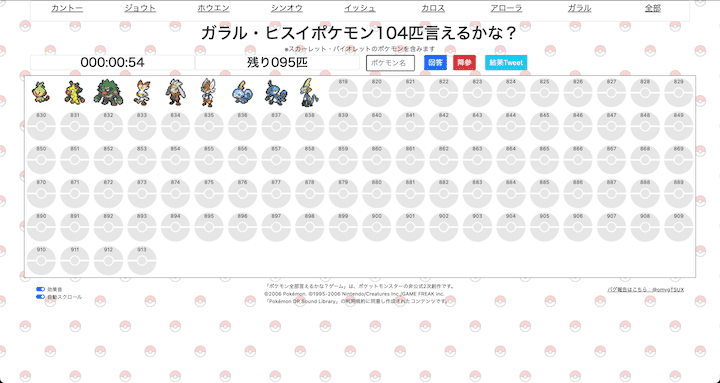
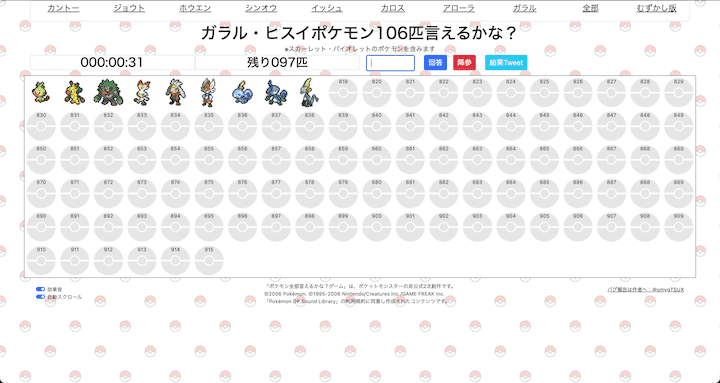
ハルクジラとパピモッチを追加

diff --git a/810-.html b/810-.html
@@ -4,11 +4,11 @@
 <head>
     <meta charset="utf-8">
     <meta name="viewport" content="width=device-width, initial-scale=1, maximum-scale=1">
-    <title>ガラル・ヒスイポケモン104匹言えるかな？ゲーム</title>
-    <meta name="description" content="キミはガラル・ヒスイポケモン104匹言えるかな？第8世代ポケモン104匹を答えるタイムアタッククイズゲームにチャレンジしよう！">
+    <title>ガラル・ヒスイポケモン106匹言えるかな？ゲーム</title>
+    <meta name="description" content="キミはガラル・ヒスイポケモン106匹言えるかな？第8世代ポケモン106匹を答えるタイムアタッククイズゲームにチャレンジしよう！">
     <meta name="twitter:card" content="summary_large_image">
-    <meta name="twitter:title" content="ガラル・ヒスイポケモン104匹言えるかな？ゲーム">
-    <meta name="twitter:description" content="キミはガラル・ヒスイポケモン104匹言えるかな？第8世代ポケモン104匹を答えるタイムアタッククイズゲームにチャレンジしよう！">
+    <meta name="twitter:title" content="ガラル・ヒスイポケモン106匹言えるかな？ゲーム">
+    <meta name="twitter:description" content="キミはガラル・ヒスイポケモン106匹言えるかな？第8世代ポケモン106匹を答えるタイムアタッククイズゲームにチャレンジしよう！">
     <meta name="twitter:image" content="https://all-pokemon-ierukana.herokuapp.com/img/system/tweet_8.png">
     <link href="https://cdn.jsdelivr.net/npm/bootstrap@5.0.0-beta1/dist/css/bootstrap.min.css" rel="stylesheet"
         integrity="sha384-giJF6kkoqNQ00vy+HMDP7azOuL0xtbfIcaT9wjKHr8RbDVddVHyTfAAsrekwKmP1" crossorigin="anonymous">
@@ -19,7 +19,7 @@
         crossorigin="anonymous"></script>
     <script>
         var number_start = 810;
-        var number_pokemons = 104;
+        var number_pokemons = 106;
     </script>
     <script defer src="script.js"></script>
     <script async src="https://www.googletagmanager.com/gtag/js?id=G-1N9KELV6J7"></script>
@@ -148,7 +148,7 @@
                 </div>
             </div>
             <h1 id="h1" class="mb-0 text-center h2 none_onfocus">
-                ガラル・ヒスイポケモン104匹言えるかな？
+                ガラル・ヒスイポケモン106匹言えるかな？
             </h1>
             <p class="text-center note mb-0 none_onfocus">※スカーレット・バイオレットのポケモンを含みます</p>
             <div class="container mb-2 rounded">

diff --git a/challengemode.html b/challengemode.html
@@ -5,10 +5,10 @@
     <meta charset="utf-8">
     <meta name="viewport" content="width=device-width, initial-scale=1, maximum-scale=1">
     <title>ポケモン全部言えるかな？ゲーム(むずかし版)</title>
-    <meta name="description" content="キミは全ポケモン913匹言えるかな？全ポケモン913匹を答えるタイムアタッククイズゲームのむずかし版にチャレンジしよう！">
+    <meta name="description" content="キミは全ポケモン915匹言えるかな？全ポケモン915匹を答えるタイムアタッククイズゲームのむずかし版にチャレンジしよう！">
     <meta name="twitter:card" content="summary_large_image">
     <meta name="twitter:title" content="ポケモン全部言えるかな？ゲーム(むずかし版)">
-    <meta name="twitter:description" content="キミは全ポケモン913匹言えるかな？全ポケモン913匹を答えるタイムアタッククイズゲームのむずかし版にチャレンジしよう！">
+    <meta name="twitter:description" content="キミは全ポケモン915匹言えるかな？全ポケモン915匹を答えるタイムアタッククイズゲームのむずかし版にチャレンジしよう！">
     <meta name="twitter:image" content="https://all-pokemon-ierukana.herokuapp.com/img/system/tweet_all.png">
     <link href="https://cdn.jsdelivr.net/npm/bootstrap@5.0.0-beta1/dist/css/bootstrap.min.css" rel="stylesheet"
         integrity="sha384-giJF6kkoqNQ00vy+HMDP7azOuL0xtbfIcaT9wjKHr8RbDVddVHyTfAAsrekwKmP1" crossorigin="anonymous">
@@ -19,7 +19,7 @@
         crossorigin="anonymous"></script>
     <script>
         var number_start = 1;
-        var number_pokemons = 913;
+        var number_pokemons = 915;
     </script>
     <script defer src="script_challenge.js"></script>
     <script async src="https://www.googletagmanager.com/gtag/js?id=G-1N9KELV6J7"></script>
@@ -148,7 +148,7 @@
                 </div>
             </div>
             <h1 id="h1" class="mb-0 text-center h2 none_onfocus">
-                全ポケモン913匹言えるかな？(むずかし版)
+                全ポケモン915匹言えるかな？(むずかし版)
             </h1>
             <p class="text-center note mb-0 none_onfocus">※スカーレット・バイオレットのポケモンを含みます</p>
             <div class="container mb-2 rounded">

diff --git a/test.html b/test.html
@@ -5,10 +5,10 @@
     <meta charset="utf-8">
     <meta name="viewport" content="width=device-width, initial-scale=1, maximum-scale=1">
     <title>ポケモン全部言えるかな？ゲーム</title>
-    <meta name="description" content="キミは全ポケモン913匹言えるかな？全ポケモン913匹を答えるタイムアタッククイズゲームにチャレンジしよう！">
+    <meta name="description" content="キミは全ポケモン915匹言えるかな？全ポケモン915匹を答えるタイムアタッククイズゲームにチャレンジしよう！">
     <meta name="twitter:card" content="summary_large_image">
     <meta name="twitter:title" content="ポケモン全部言えるかな？ゲーム">
-    <meta name="twitter:description" content="キミは全ポケモン913匹言えるかな？全ポケモン913匹を答えるタイムアタッククイズゲームにチャレンジしよう！">
+    <meta name="twitter:description" content="キミは全ポケモン915匹言えるかな？全ポケモン915匹を答えるタイムアタッククイズゲームにチャレンジしよう！">
     <meta name="twitter:image" content="https://all-pokemon-ierukana.herokuapp.com/img/system/tweet_all.png">
     <link href="https://cdn.jsdelivr.net/npm/bootstrap@5.0.0-beta1/dist/css/bootstrap.min.css" rel="stylesheet"
         integrity="sha384-giJF6kkoqNQ00vy+HMDP7azOuL0xtbfIcaT9wjKHr8RbDVddVHyTfAAsrekwKmP1" crossorigin="anonymous">
@@ -19,7 +19,7 @@
         crossorigin="anonymous"></script>
     <script>
         var number_start = 1;
-        var number_pokemons = 913;
+        var number_pokemons = 915;
     </script>
     <script defer src="script_raw.js"></script>
     <script async src="https://www.googletagmanager.com/gtag/js?id=G-1N9KELV6J7"></script>
@@ -149,7 +149,7 @@
                 </div>
             </div>
             <h1 id="h1" class="mb-0 text-center h2 none_onfocus">
-                全ポケモン913匹言えるかな？
+                全ポケモン915匹言えるかな？
             </h1>
             <p class="text-center note mb-0 none_onfocus">※スカーレット・バイオレットのポケモンを含みます</p>
             <div class="container mb-2 rounded">

diff --git a/index.html b/index.html
@@ -5,10 +5,10 @@
     <meta charset="utf-8">
     <meta name="viewport" content="width=device-width, initial-scale=1, maximum-scale=1">
     <title>ポケモン全部言えるかな？ゲーム</title>
-    <meta name="description" content="キミは全ポケモン913匹言えるかな？全ポケモン913匹を答えるタイムアタッククイズゲームにチャレンジしよう！">
+    <meta name="description" content="キミは全ポケモン915匹言えるかな？全ポケモン915匹を答えるタイムアタッククイズゲームにチャレンジしよう！">
     <meta name="twitter:card" content="summary_large_image">
     <meta name="twitter:title" content="ポケモン全部言えるかな？ゲーム">
-    <meta name="twitter:description" content="キミは全ポケモン913匹言えるかな？全ポケモン913匹を答えるタイムアタッククイズゲームにチャレンジしよう！">
+    <meta name="twitter:description" content="キミは全ポケモン915匹言えるかな？全ポケモン915匹を答えるタイムアタッククイズゲームにチャレンジしよう！">
     <meta name="twitter:image" content="https://all-pokemon-ierukana.herokuapp.com/img/system/tweet_all.png">
     <link href="https://cdn.jsdelivr.net/npm/bootstrap@5.0.0-beta1/dist/css/bootstrap.min.css" rel="stylesheet"
         integrity="sha384-giJF6kkoqNQ00vy+HMDP7azOuL0xtbfIcaT9wjKHr8RbDVddVHyTfAAsrekwKmP1" crossorigin="anonymous">
@@ -19,7 +19,7 @@
         crossorigin="anonymous"></script>
     <script>
         var number_start = 1;
-        var number_pokemons = 913;
+        var number_pokemons = 915;
     </script>
     <script defer src="script.js"></script>
     <script async src="https://www.googletagmanager.com/gtag/js?id=G-1N9KELV6J7"></script>
@@ -148,7 +148,7 @@
                 </div>
             </div>
             <h1 id="h1" class="mb-0 text-center h2 none_onfocus">
-                全ポケモン913匹言えるかな？
+                全ポケモン915匹言えるかな？
             </h1>
             <p class="text-center note mb-0 none_onfocus">※スカーレット・バイオレットのポケモンを含みます</p>
             <div class="container mb-2 rounded">
